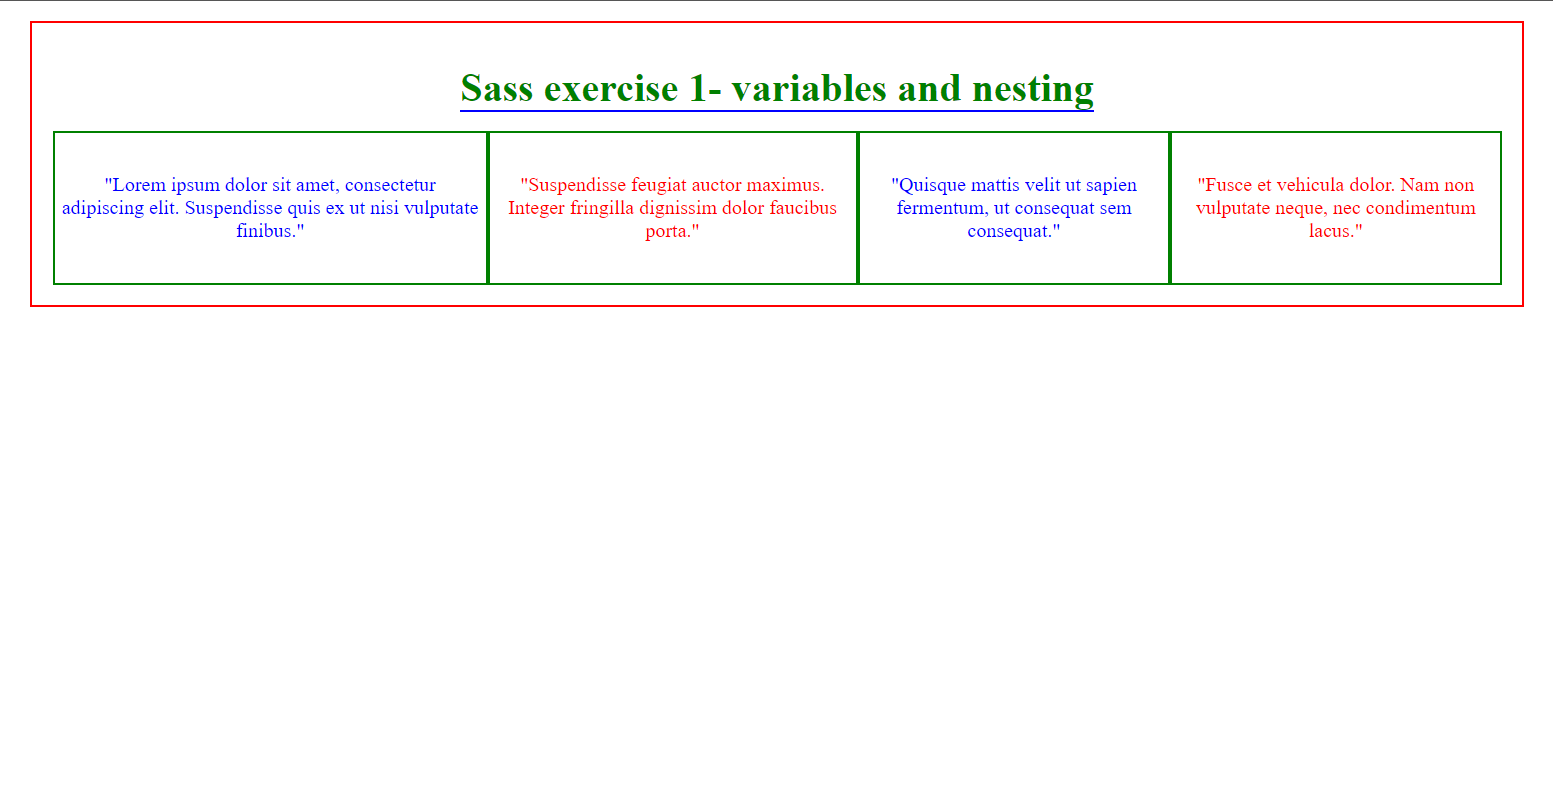
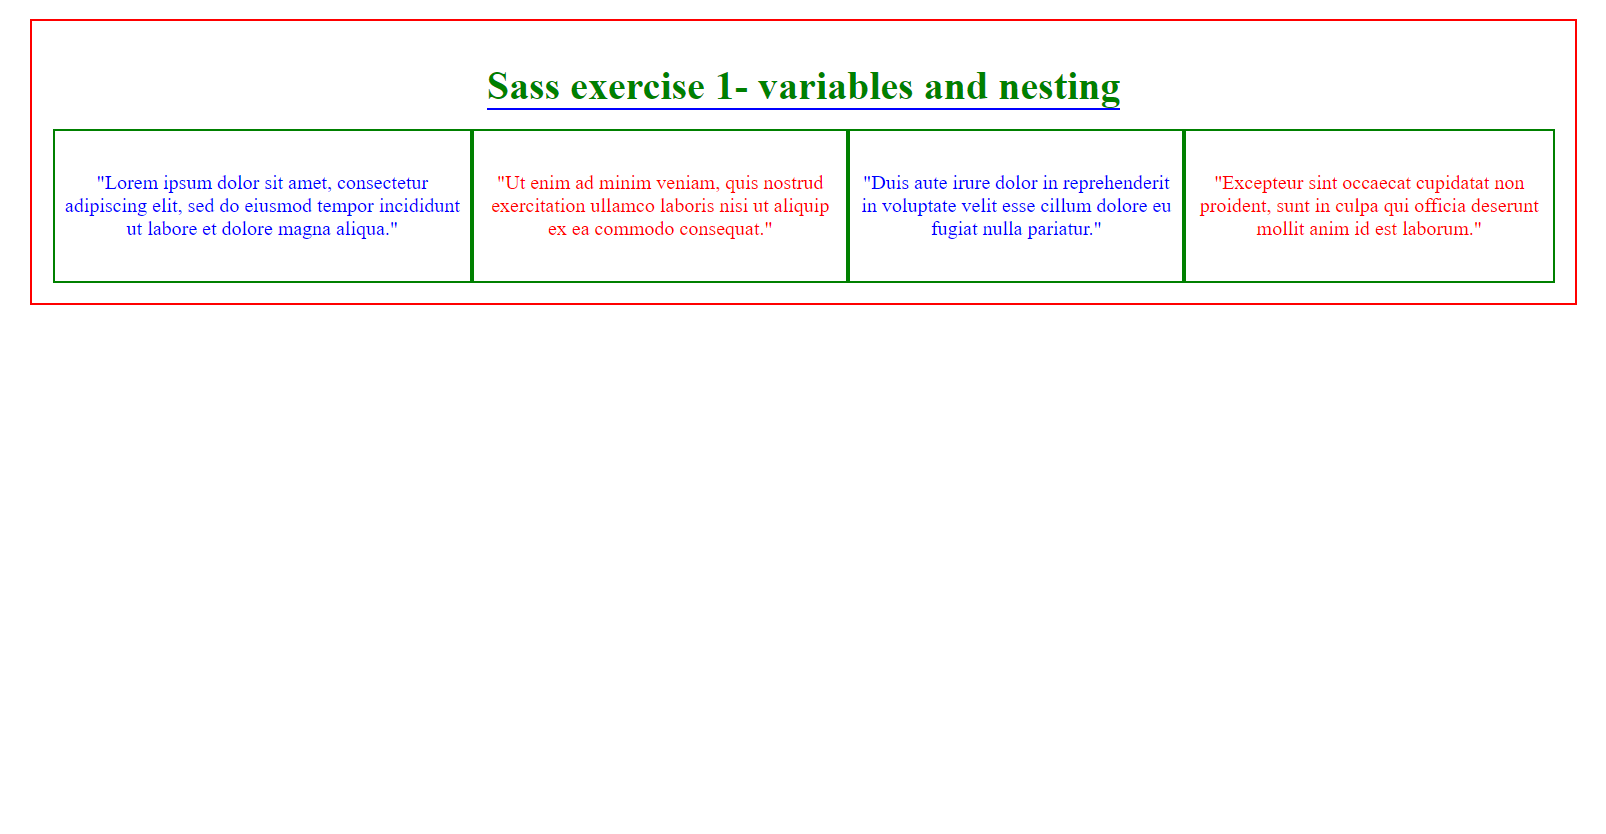
added first exercise

Changed region(s): [[0.0, 0.0907, 0.9891, 0.3929], [0.0, 0.0, 0.9891, 0.0302]]

diff --git a/Exercise-1/index.html b/Exercise-1/index.html
@@ -17,22 +17,22 @@
             <div class="lorem-texts">
                 <div class="first-part">
                     <p>
-                        "Lorem ipsum dolor sit amet, consectetur adipiscing elit. Suspendisse quis ex ut nisi vulputate finibus."
+                        "Lorem ipsum dolor sit amet, consectetur adipiscing elit, sed do eiusmod tempor incididunt ut labore et dolore magna aliqua."
                     </p>
                 </div>
                 <div class="second-part">
                     <p>
-                        "Suspendisse feugiat auctor maximus. Integer fringilla dignissim dolor faucibus porta."
+                        "Ut enim ad minim veniam, quis nostrud exercitation ullamco laboris nisi ut aliquip ex ea commodo consequat."
                     </p>
                 </div>
                 <div class="third-part">
                     <p>
-                        "Quisque mattis velit ut sapien fermentum, ut consequat sem consequat."
+                        "Duis aute irure dolor in reprehenderit in voluptate velit esse cillum dolore eu fugiat nulla pariatur."
                     </p>
                 </div>
                 <div class="fourth-part">
                     <p>
-                        "Fusce et vehicula dolor. Nam non vulputate neque, nec condimentum lacus."
+                        "Excepteur sint occaecat cupidatat non proident, sunt in culpa qui officia deserunt mollit anim id est laborum."
                     </p>
                 </div>
             </div>

diff --git a/Exercise-1/README.md b/Exercise-1/README.md
@@ -1,0 +1,20 @@
+
+Create the layout displayed in sass_exercise_1_layout.jpg using the rules nesting and the Sass Variables.
+
+You should use the following colors:
+* red 
+* blue
+* green
+
+**Suggestion:**
+
+$color-primary: red;
+$color-tertiary: green;
+
+.exercise {
+border: 1px solid $color-primary;
+
+    .exercise-title {
+        color: $color-tertiary;
+    }
+}
